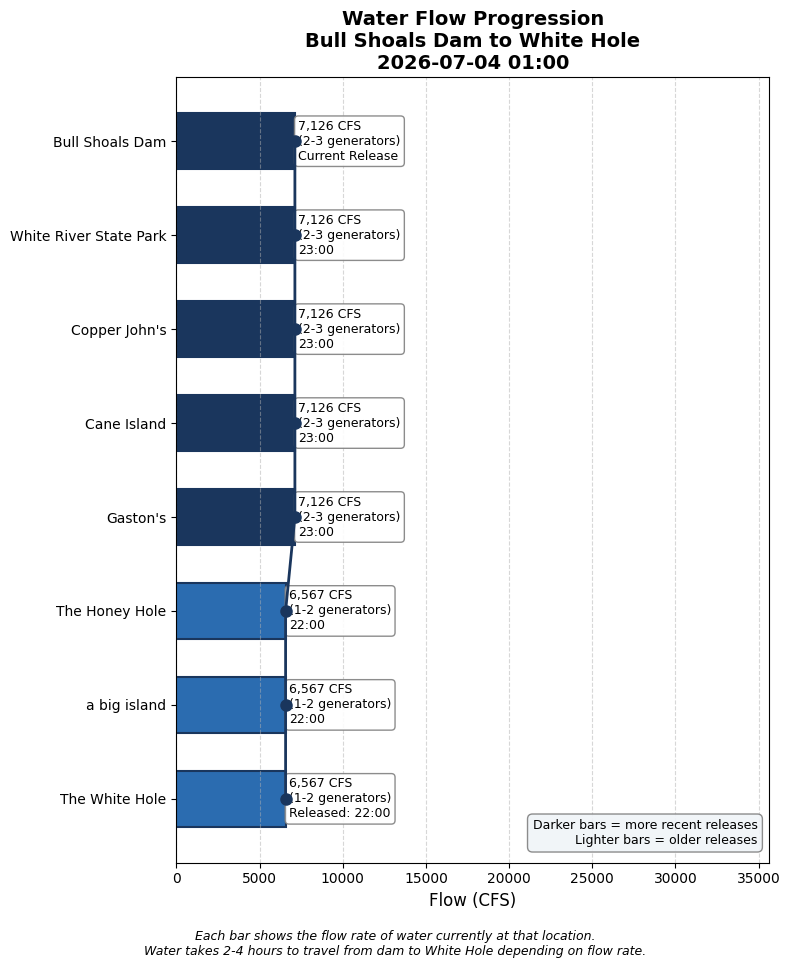
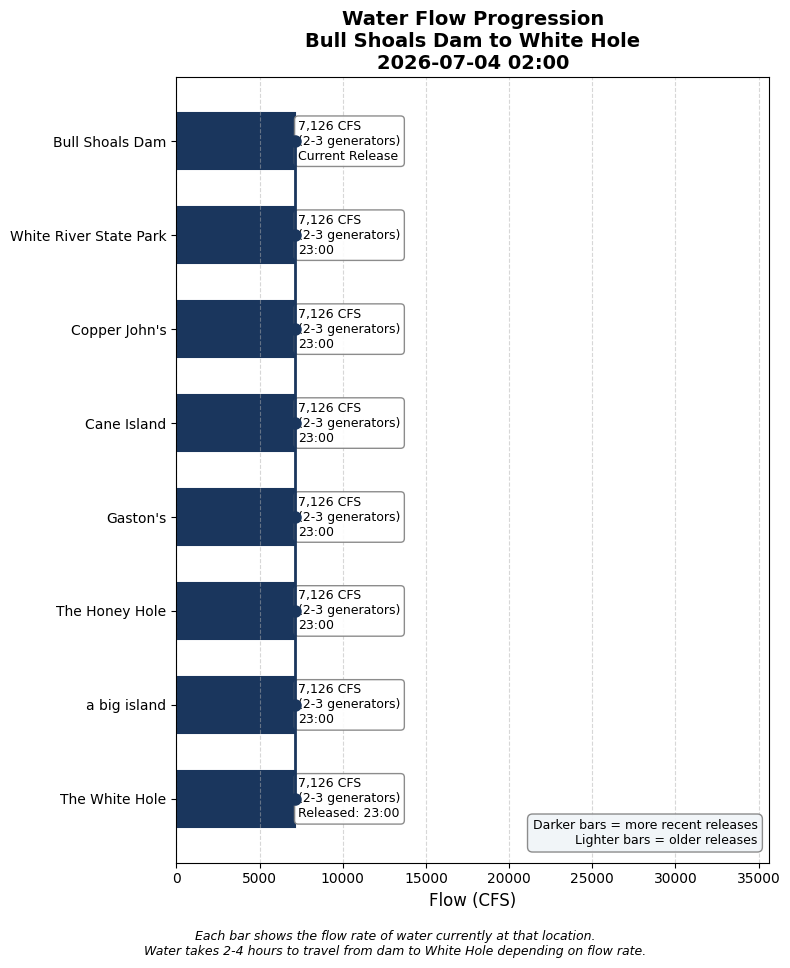
Update water conditions 2026-07-04 02:00

Changed region(s): [[0.2127, 0.5579, 0.5165, 0.8678]]

diff --git a/white_hole_conditions.html b/white_hole_conditions.html
@@ -3,7 +3,7 @@
 <head>
     <meta charset="UTF-8">
     <meta name="viewport" content="width=device-width, initial-scale=1.0">
-    <title>White Hole Conditions - 2026-07-04 01:00</title>
+    <title>White Hole Conditions - 2026-07-04 02:00</title>
     <style>
         body {
             font-family: -apple-system, BlinkMacSystemFont, 'Segoe UI', Roboto, sans-serif;
@@ -148,7 +148,7 @@
 </head>
 <body>
     <h1>White Hole Current Conditions</h1>
-    <p class="subtitle">Saturday, July 04, 2026 at 01:00 AM</p>
+    <p class="subtitle">Saturday, July 04, 2026 at 02:00 AM</p>
 
     <!-- HEADLINE BANNER -->
     <div class="headline-banner">
@@ -160,8 +160,8 @@
     <!-- CURRENT CONDITIONS -->
     <div class="current-conditions">
         <h3>Current Conditions at White Hole</h3>
-        <div class="flow-display">6,567 CFS</div>
-        <div class="generator-display">Equivalent to 1-2 generators</div>
+        <div class="flow-display">7,126 CFS</div>
+        <div class="generator-display">Equivalent to 2-3 generators</div>
         <div class="condition-pills">
             <span class="pill wading">No Wading</span>
             <span class="pill boating">Ideal Boating</span>
@@ -189,6 +189,14 @@
                 <tr><td colspan="3" style="padding: 8px 10px; font-size: 0.8em; font-weight: bold; color: #6b46c1; text-transform: uppercase; letter-spacing: 0.05em; background-color: #f3e8ff;">Scheduled (SWPA forecast)</td></tr>
                 
                     <tr style="background-color: #faf5ff; ">
+                        <td style="padding: 10px; font-weight: bold;">5 AM</td>
+                        <td style="padding: 10px;">10,378 CFS<br><small style="color: #666;">(3-4 generators: 10128 generation + 250 min flow)</small></td>
+                        <td style="padding: 10px;">~7:37 AM
+                            <span style="display: inline-block; margin-left: 6px; padding: 2px 8px; border-radius: 12px; font-size: 0.8em; background-color: #fee2e2; color: #991b1b;">No Wading</span>
+                        </td>
+                    </tr>
+                
+                    <tr style="background-color: #faf5ff; ">
                         <td style="padding: 10px; font-weight: bold;">4 AM</td>
                         <td style="padding: 10px;">10,378 CFS<br><small style="color: #666;">(3-4 generators: 10128 generation + 250 min flow)</small></td>
                         <td style="padding: 10px;">~6:37 AM
@@ -212,27 +220,13 @@
                         </td>
                     </tr>
                 
-                    <tr style="background-color: #faf5ff; ">
-                        <td style="padding: 10px; font-weight: bold;">1 AM</td>
-                        <td style="padding: 10px;">10,378 CFS<br><small style="color: #666;">(3-4 generators: 10128 generation + 250 min flow)</small></td>
-                        <td style="padding: 10px;">~3:37 AM
-                            <span style="display: inline-block; margin-left: 6px; padding: 2px 8px; border-radius: 12px; font-size: 0.8em; background-color: #fee2e2; color: #991b1b;">No Wading</span>
-                        </td>
-                    </tr>
-                
             
                     
                 <tr><td colspan="3" style="padding: 8px 10px; font-size: 0.8em; font-weight: bold; color: #2b6cb0; text-transform: uppercase; letter-spacing: 0.05em; background-color: #ebf8ff;">Actual (dam readings)</td></tr>
                 
-                    <tr style="background-color: #ebf8ff;">
+                    <tr style="background-color: #e6fffa;">
                         <td style="padding: 10px; font-weight: bold;">11:00 PM</td>
                         <td style="padding: 10px;">7,126 CFS<br><small style="color: #666;">(2-3 generators)</small></td>
-                        <td style="padding: 10px;"><span style="color: #2b6cb0;">→ Arrives ~1:53 AM (in 53 min)</span></td>
-                    </tr>
-                
-                    <tr style="background-color: #e6fffa;">
-                        <td style="padding: 10px; font-weight: bold;">10:00 PM</td>
-                        <td style="padding: 10px;">6,567 CFS<br><small style="color: #666;">(1-2 generators)</small></td>
                         <td style="padding: 10px;"><span style="color: #319795; font-weight: bold;">← AT WHITE HOLE NOW</span></td>
                     </tr>
                 
@@ -269,8 +263,8 @@
         <div style="padding: 15px;">
             <ul>
                 <li>Latest dam reading: 7,126 CFS at 2026-07-03 23:00</li>
-                <li>Travel time to White Hole: 3.0 hours at current flow</li>
-                <li>White Hole conditions based on dam reading from: 2026-07-03 22:00</li>
+                <li>Travel time to White Hole: 2.9 hours at current flow</li>
+                <li>White Hole conditions based on dam reading from: 2026-07-03 23:00</li>
             </ul>
         </div>
     </details>
@@ -355,13 +349,6 @@
                     <td style="padding: 8px; text-align: right;">2.1</td>
                 </tr>
                 
-                <tr style="border-bottom: 1px solid #eee;">
-                    <td style="padding: 8px;">2026-07-03 14:00</td>
-                    <td style="padding: 8px; text-align: right;">19484</td>
-                    <td style="padding: 8px; text-align: right;">5.9</td>
-                    <td style="padding: 8px; text-align: right;">2.1</td>
-                </tr>
-                
                     </tbody>
                 </table>
             </div>
@@ -369,7 +356,7 @@
         
 
     <div class="timestamp">
-        Data retrieved and processed on 2026-07-04 01:00:09
+        Data retrieved and processed on 2026-07-04 02:00:07
     </div>
 </body>
 </html>
